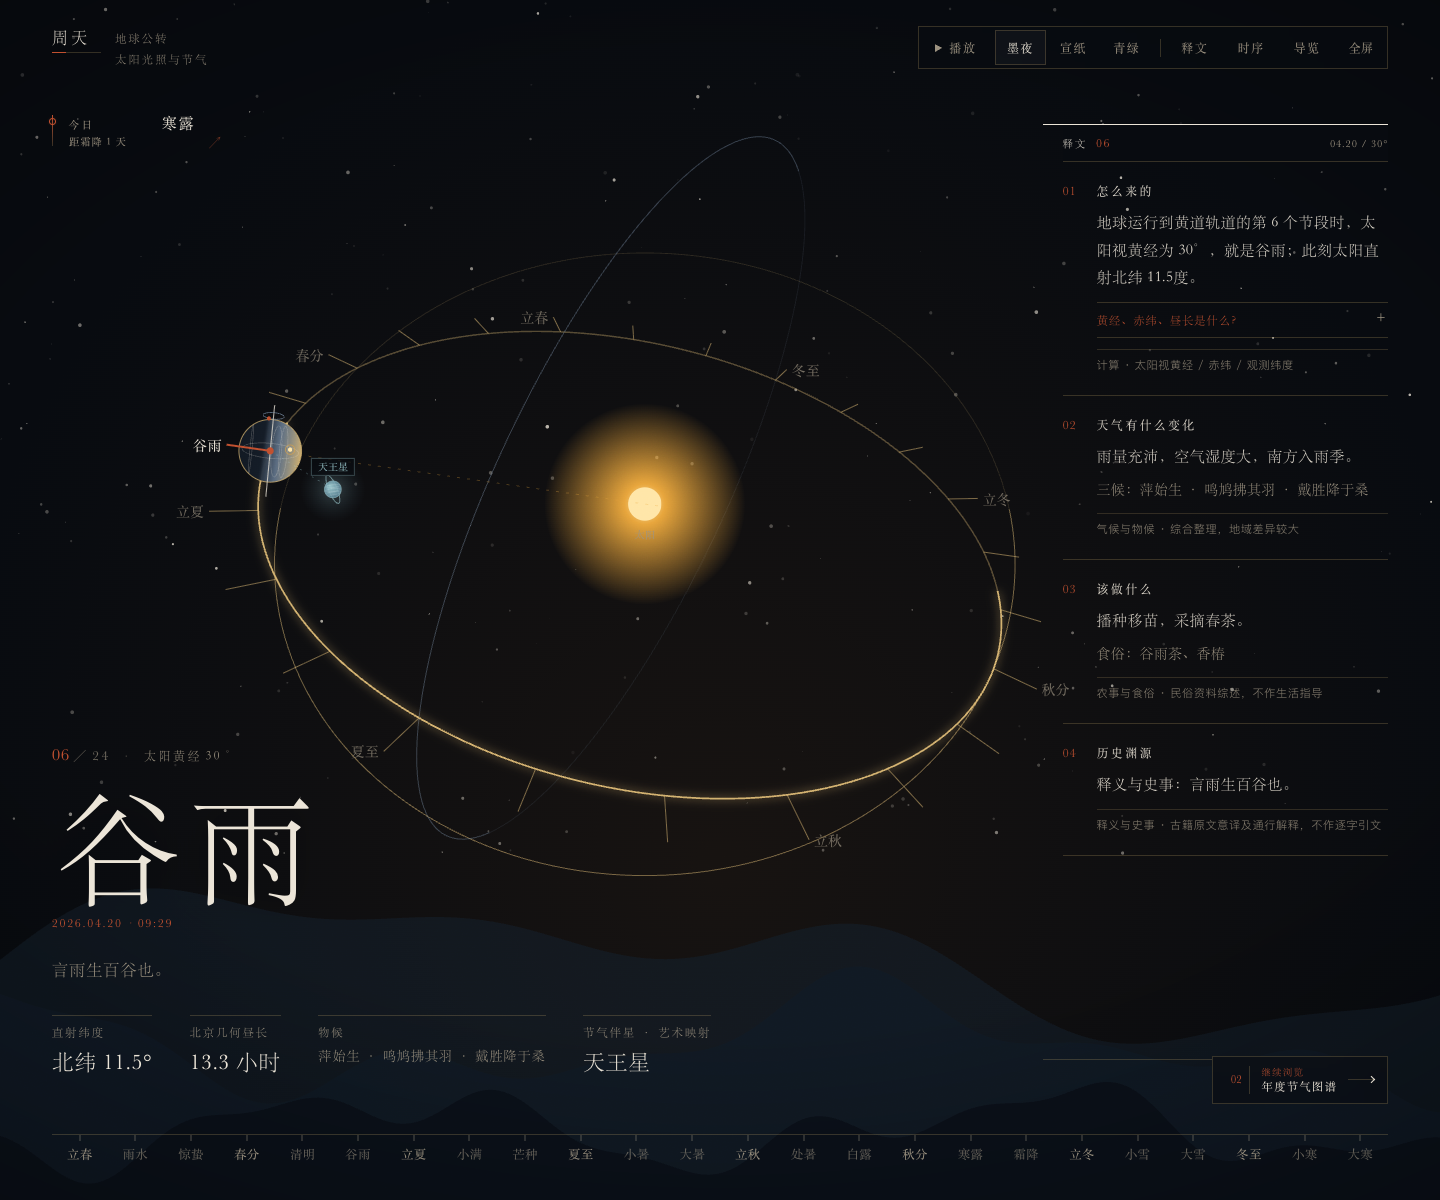
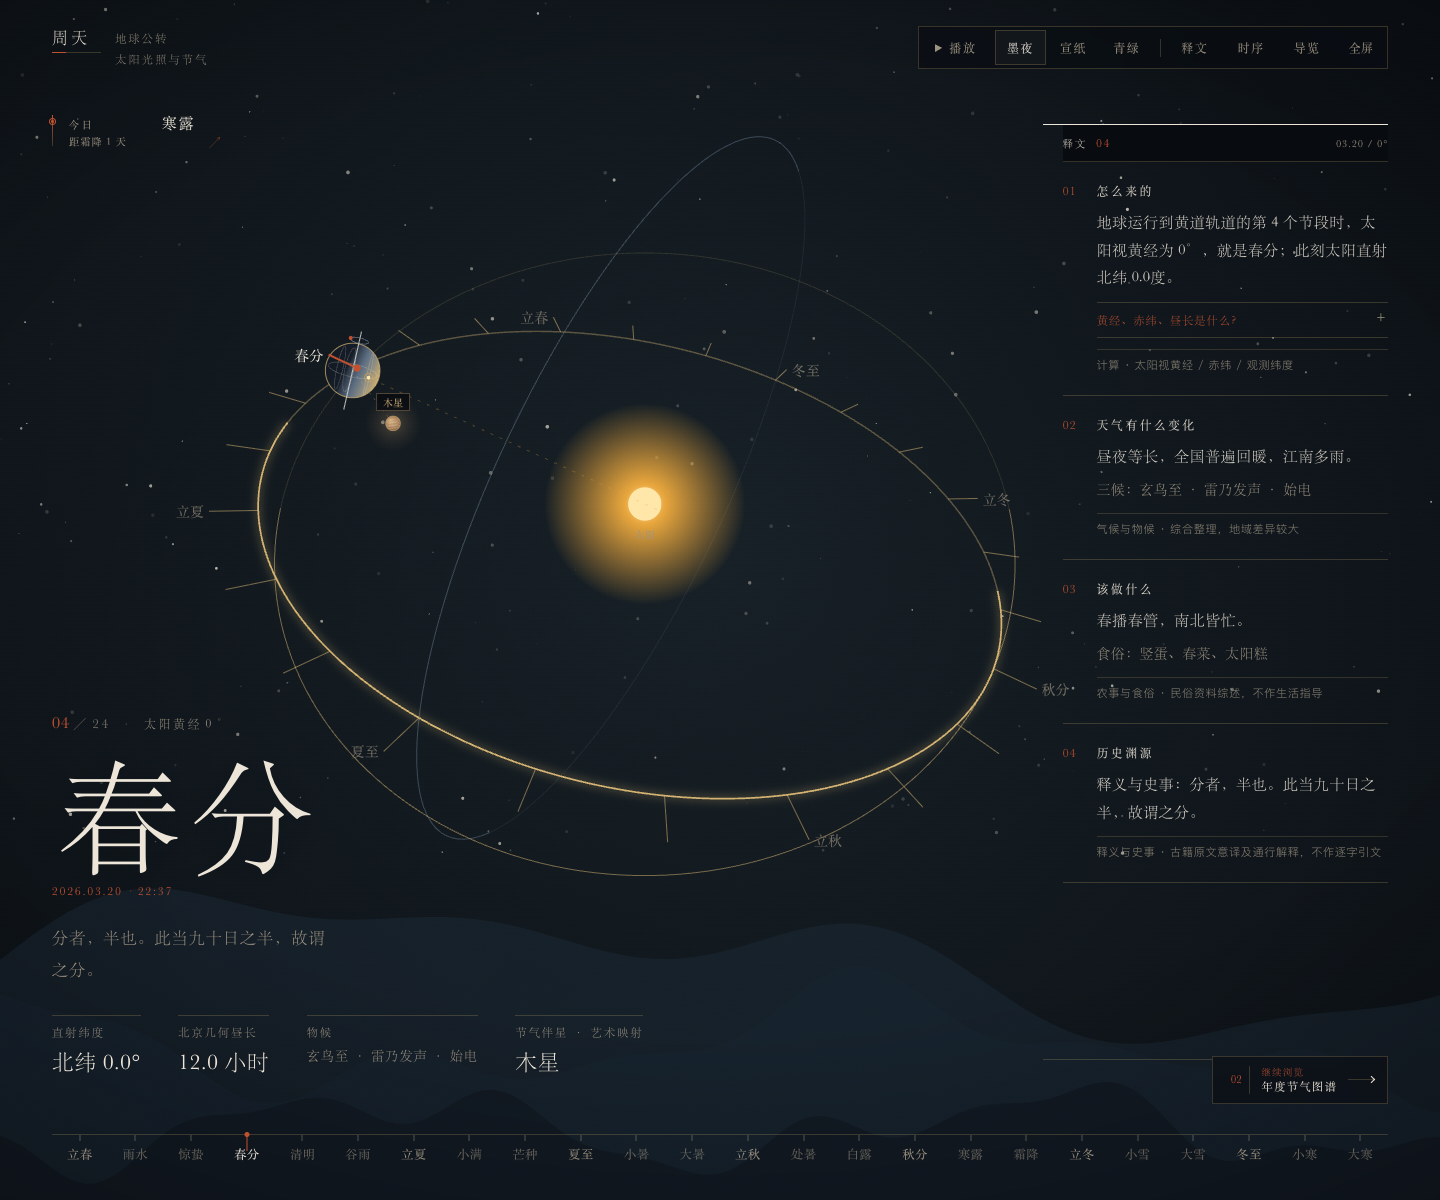
Animate term-specific sky and mountain colors

diff --git a/app.js b/app.js
@@ -61,6 +61,16 @@
     {name:"创神星", a:"#d4c6b8", b:"#75685c"}
   ];
 
+  // 每个节气拥有独立的天空色温，按节点序列平滑过渡。
+  var TERM_SKY = [
+    "#274438", "#263f4b", "#4b432e", "#38505a",
+    "#405347", "#485039", "#4c3e27", "#554d2f",
+    "#4d3b25", "#60351d", "#64321e", "#6b2017",
+    "#5d4629", "#514039", "#45505b", "#5a5038",
+    "#344a55", "#3f484b", "#283c47", "#354454",
+    "#3e4f61", "#243c4d", "#2c3e4c", "#233845"
+  ];
+
   var DEG = Math.PI / 180;
   var TILT_DEFAULT = 23.44;
   var LAT_BJ = 39.9 * DEG;
@@ -306,11 +316,13 @@
     ctx.restore();
   }
 
-  function drawMountains() {
+  function drawMountains(tint) {
+    var palette = document.body.getAttribute("data-pal");
+    var tintAmount = palette === "paper" ? 0.06 : palette === "qing" ? 0.12 : 0.15;
     var layers = [
-      {y: 0.80, amp: 0.085, col: C["--mount3"], al: 0.55, f: 0.9},
-      {y: 0.87, amp: 0.065, col: C["--mount2"], al: 0.75, f: 1.5},
-      {y: 0.94, amp: 0.048, col: C["--mount1"], al: 0.95, f: 2.2}
+      {y: 0.80, amp: 0.085, col: mix(C["--mount3"], tint, tintAmount), al: 0.55, f: 0.9},
+      {y: 0.87, amp: 0.065, col: mix(C["--mount2"], tint, tintAmount), al: 0.75, f: 1.5},
+      {y: 0.94, amp: 0.048, col: mix(C["--mount1"], tint, tintAmount), al: 0.95, f: 2.2}
     ];
     for (var k = 0; k < layers.length; k++) {
       var L = layers[k], base = S.h * L.y, amp = S.h * L.amp;
@@ -567,19 +579,38 @@
     return (a + d * f) % 360;
   }
 
+  function currentSkyColor() {
+    var t = S.tDisp;
+    var fi = Math.floor(t);
+    var i = ((fi % 24) + 24) % 24;
+    var f = clamp(t - fi, 0, 1);
+    return mix(TERM_SKY[i], TERM_SKY[(i + 1) % 24], f);
+  }
+
   function render() {
     var w = S.w, h = S.h;
     ctx.setTransform(S.dpr, 0, 0, S.dpr, 0, 0);
     ctx.clearRect(0, 0, w, h);
 
     var lam = currentLam();
-    var warmth = (Math.sin(lam * DEG) + 1) / 2;
+    var skyTint = currentSkyColor();
+    var palette = document.body.getAttribute("data-pal");
+    var skyStrength = palette === "paper" ? 0.12 : palette === "qing" ? 0.24 : 0.30;
+    var skyCore = mix(C["--bg"], skyTint, skyStrength);
+    var skyEdge = mix(C["--bg"], skyTint, skyStrength * 0.34);
 
-    var g = ctx.createRadialGradient(w * 0.5, h * 0.72, 20, w * 0.5, h * 0.55, Math.max(w, h) * 0.95);
-    g.addColorStop(0, mix(C["--bg"], warmth > 0.5 ? C["--warm"] : C["--cool"], 0.30));
-    g.addColorStop(0.55, C["--bg"]);
+    var g = ctx.createRadialGradient(w * 0.5, h * 0.46, 20, w * 0.5, h * 0.52, Math.max(w, h) * 0.92);
+    g.addColorStop(0, skyCore);
+    g.addColorStop(0.56, skyEdge);
     g.addColorStop(1, C["--bg"]);
     ctx.fillStyle = g;
+    ctx.fillRect(0, 0, w, h);
+
+    var termWash = ctx.createLinearGradient(0, 0, w, h);
+    termWash.addColorStop(0, rgba(skyTint, palette === "paper" ? 0.035 : 0.08));
+    termWash.addColorStop(0.55, fade(skyTint));
+    termWash.addColorStop(1, rgba(skyTint, palette === "paper" ? 0.02 : 0.04));
+    ctx.fillStyle = termWash;
     ctx.fillRect(0, 0, w, h);
 
     // 星
@@ -600,7 +631,7 @@
     drawRing("mer", C["--ring2"], 1, 0.26);
     drawRing("ec", C["--ring"], 1.7, 0.95, true);
 
-    drawMountains();
+    drawMountains(skyTint);
 
     // 太阳位于中心
     var sunWorld = {x: 0, y: 0, z: 0};
